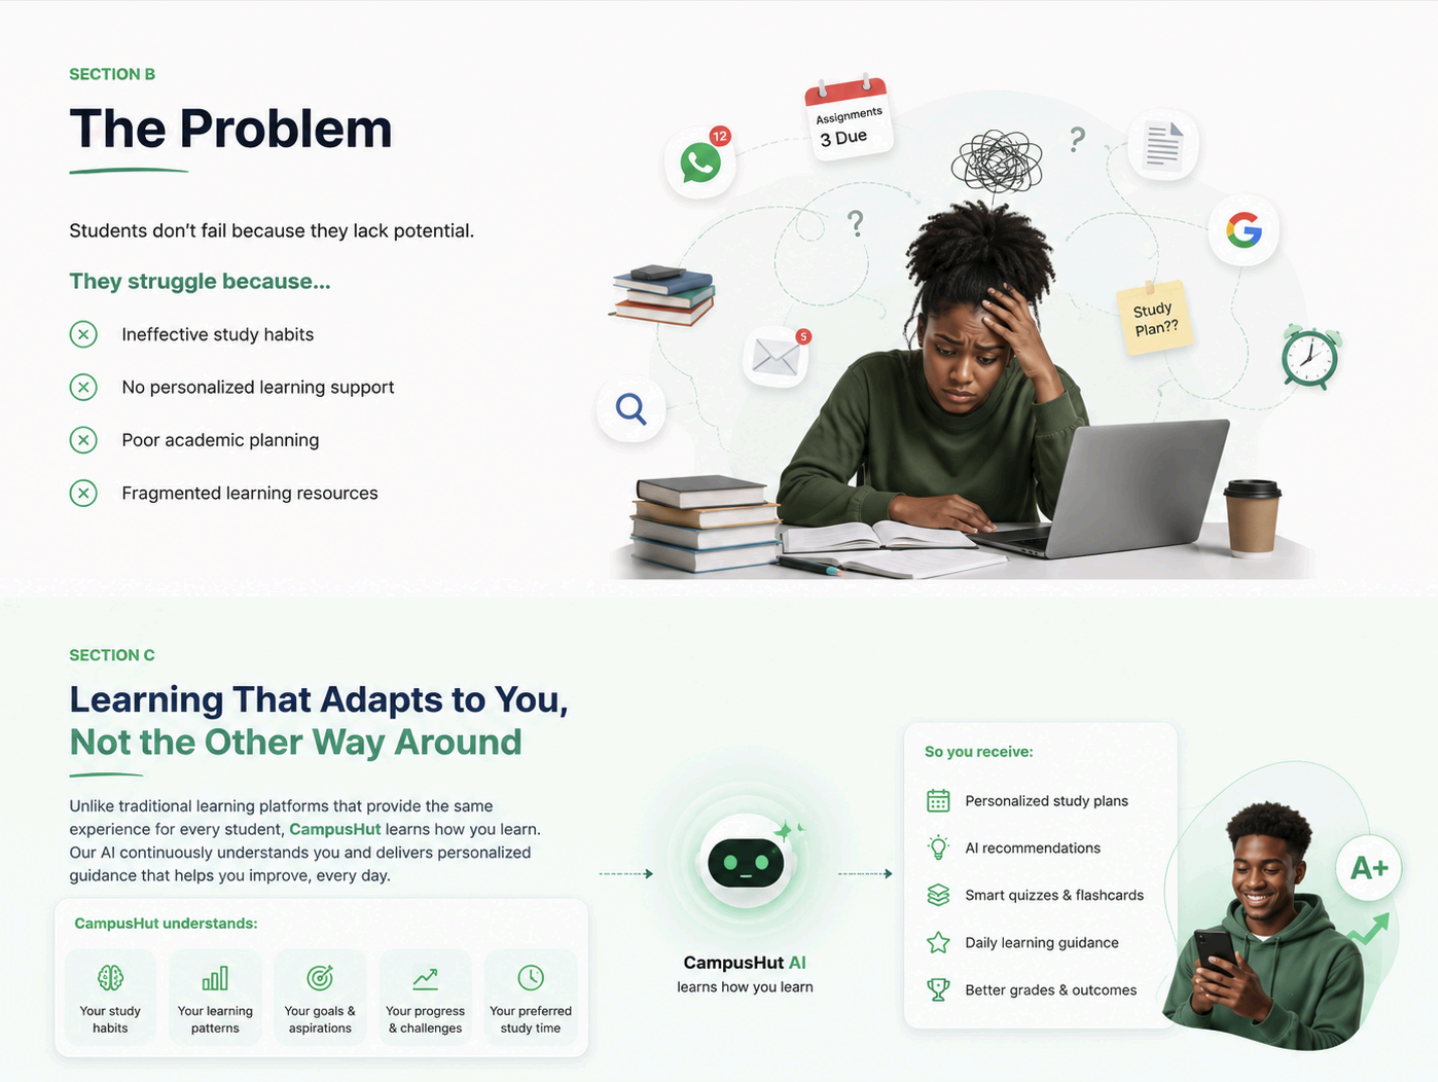
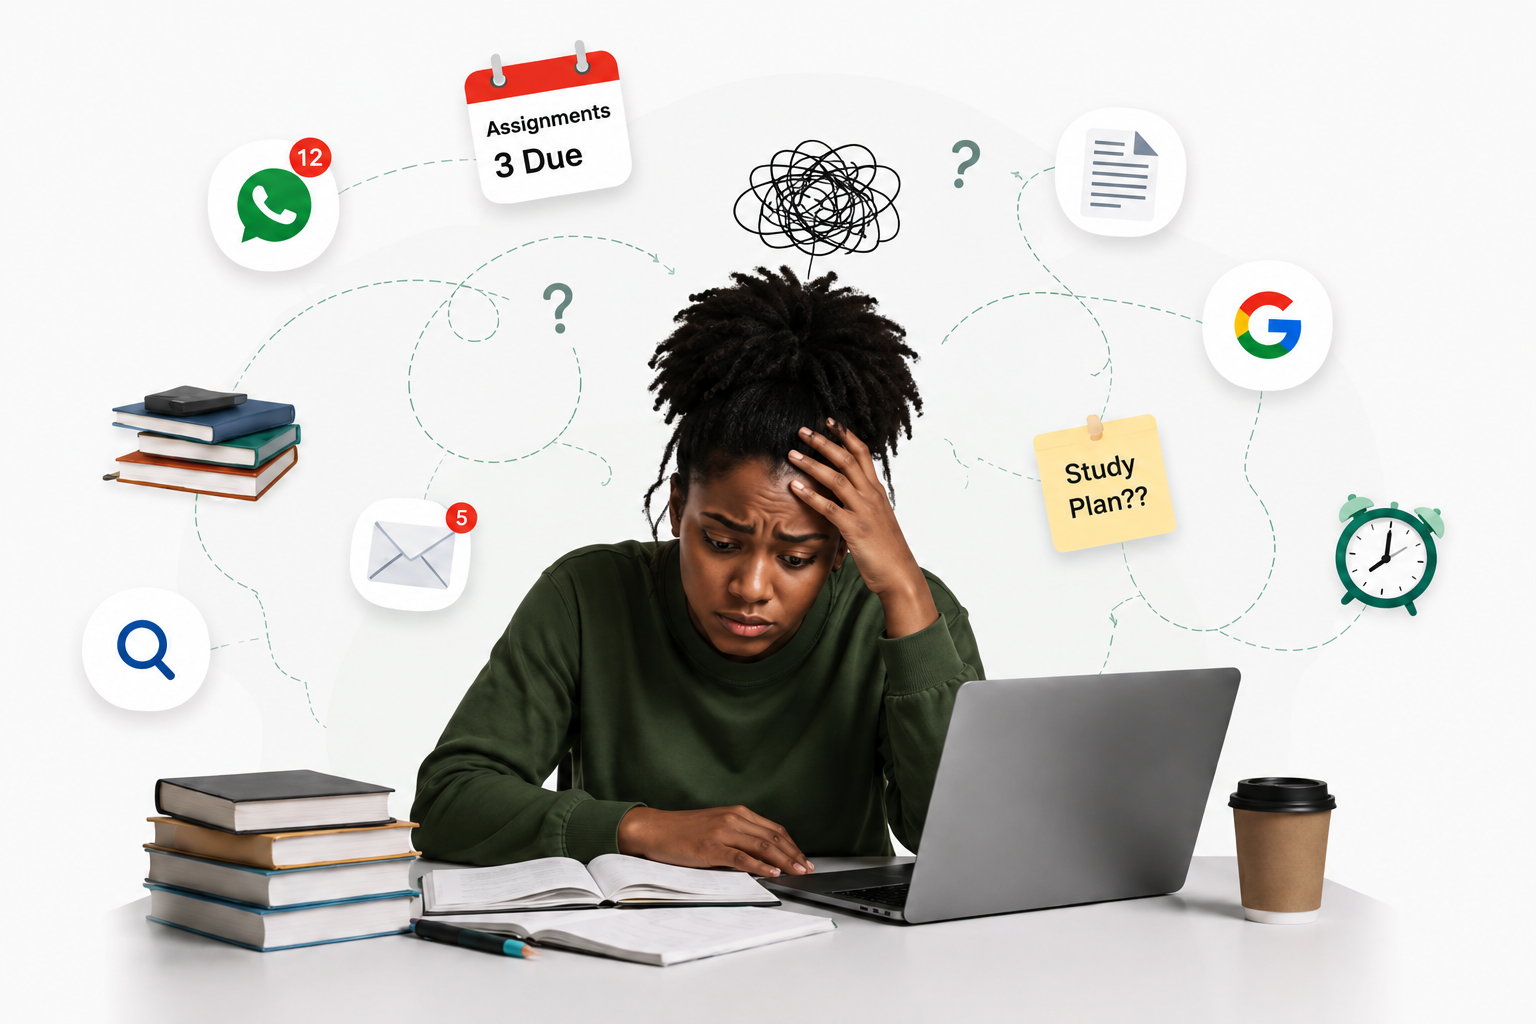
new edit

diff --git a/src/components/FAQSection.tsx b/src/components/FAQSection.tsx
@@ -12,7 +12,7 @@ const FAQSection = () => {
       id: 1,
       question: "Is CampusHut free to use?",
       answer:
-        "Yes! CampusHut offers a robust free plan with essential features like task scheduling, campus news, and basic CV templates. Premium features are available for ₦1,500/month.",
+        "Yes! CampusHut's free plan includes a basic AI Assistant, task scheduling, and assignment management. Upgrade to CampusHut Premium for ₦3,000/month to unlock a personalized AI learning experience tailored to you.",
     },
     {
       id: 2,

diff --git a/src/components/ProblemSection.tsx b/src/components/ProblemSection.tsx
@@ -11,7 +11,7 @@ const problems = [
 
 const ProblemSection = () => {
   return (
-    <section id="problem" className="py-16 sm:py-20 bg-white">
+    <section id="problem" className="py-16 sm:py-20 bg-gray-50">
       <div className="max-w-7xl mx-auto px-4 sm:px-6 lg:px-8">
         <div className="grid lg:grid-cols-2 gap-12 items-center">
           <div data-aos="fade-right">